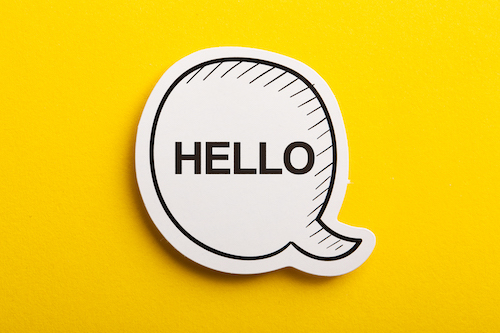
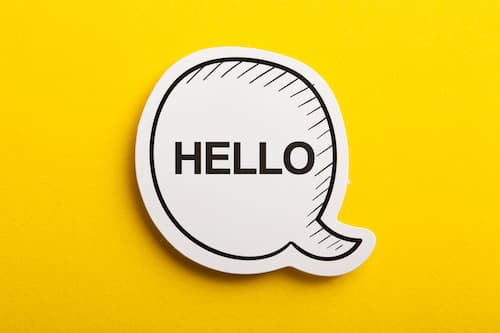
Optimized the images on the site and improved accessibility

diff --git a/index.html b/index.html
@@ -9,8 +9,8 @@
     <meta name="viewport" content="width=device-width, initial-scale=1" />
     <meta name="robots" content="index, follow" />
     <meta name="google-site-verification" content="A1Ca8U9O_2Hqv2e59n5GSIndInobH8paVTkMg603F4Y" />
-    <link rel="stylesheet" href="https://www.w3schools.com/w3css/4/w3.css" />
-    <link href="https://maxcdn.bootstrapcdn.com/font-awesome/4.7.0/css/font-awesome.min.css" rel="stylesheet" />
+    <link rel="stylesheet" href="https://www.w3schools.com/w3css/4/w3.css">
+    <link href="https://maxcdn.bootstrapcdn.com/font-awesome/4.7.0/css/font-awesome.min.css" rel="stylesheet">
     <link rel="stylesheet" href="css/style.css" />
   </head>
   <!-- Navigation  -->
@@ -47,8 +47,8 @@
     <main>  
     <!-- Showcase -->
     <section>
-      <div id="showcase" class="w3-container w3-center w3-animate-opacity">
-        <div><img src="img/ch_banner.svg" width="230" aria-label="Choozing Happy Logo" /></div>
+      <div id="showcase" class="w3-container w3-center">
+        <div><img src="img/ch_banner.svg" width="230" height="144"aria-label="Choozing Happy Logo" /></div>
         <p class="w3-sans-serif">INTUITIVE GUIDANCE &nbsp; &#183; &nbsp; ENERGY HEALING &nbsp; &#183; &nbsp; MINDFULNESS</p>
       </div>
     </section>
